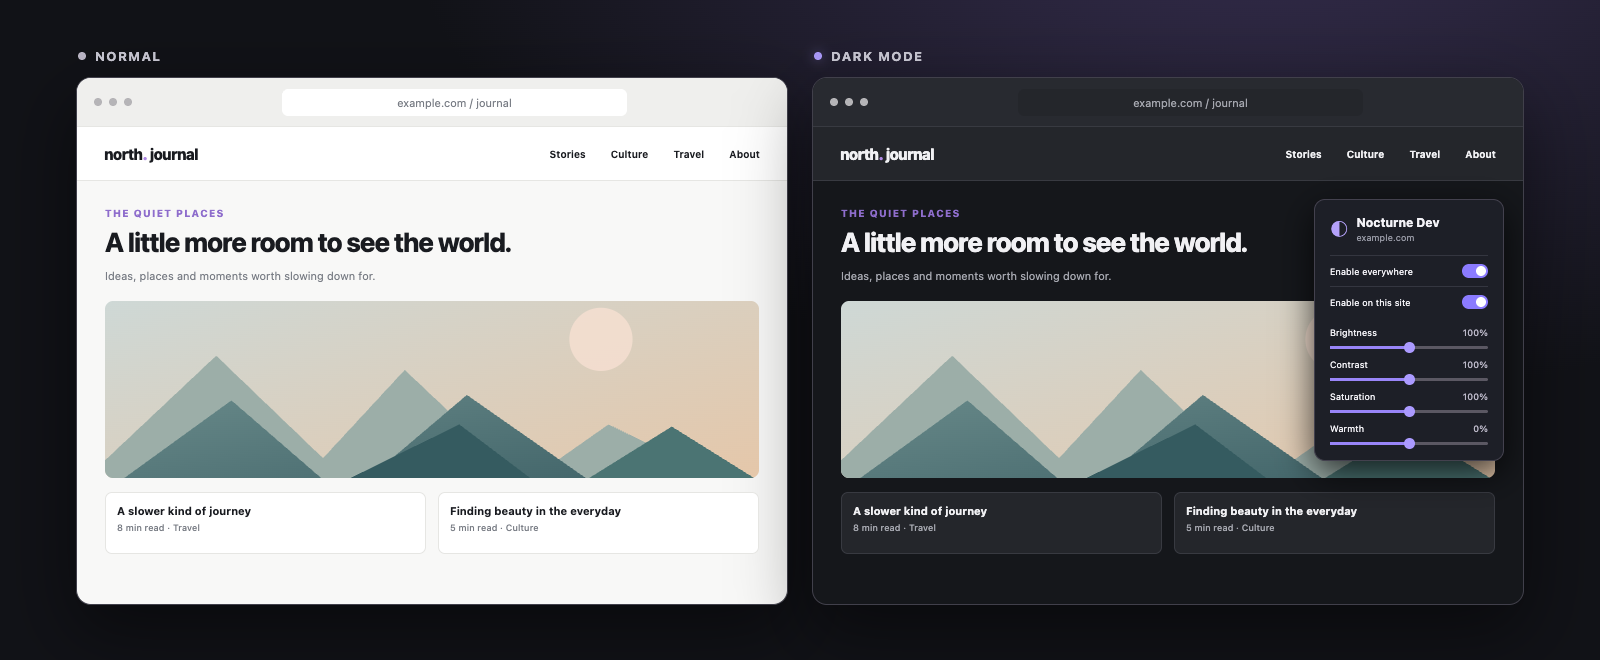
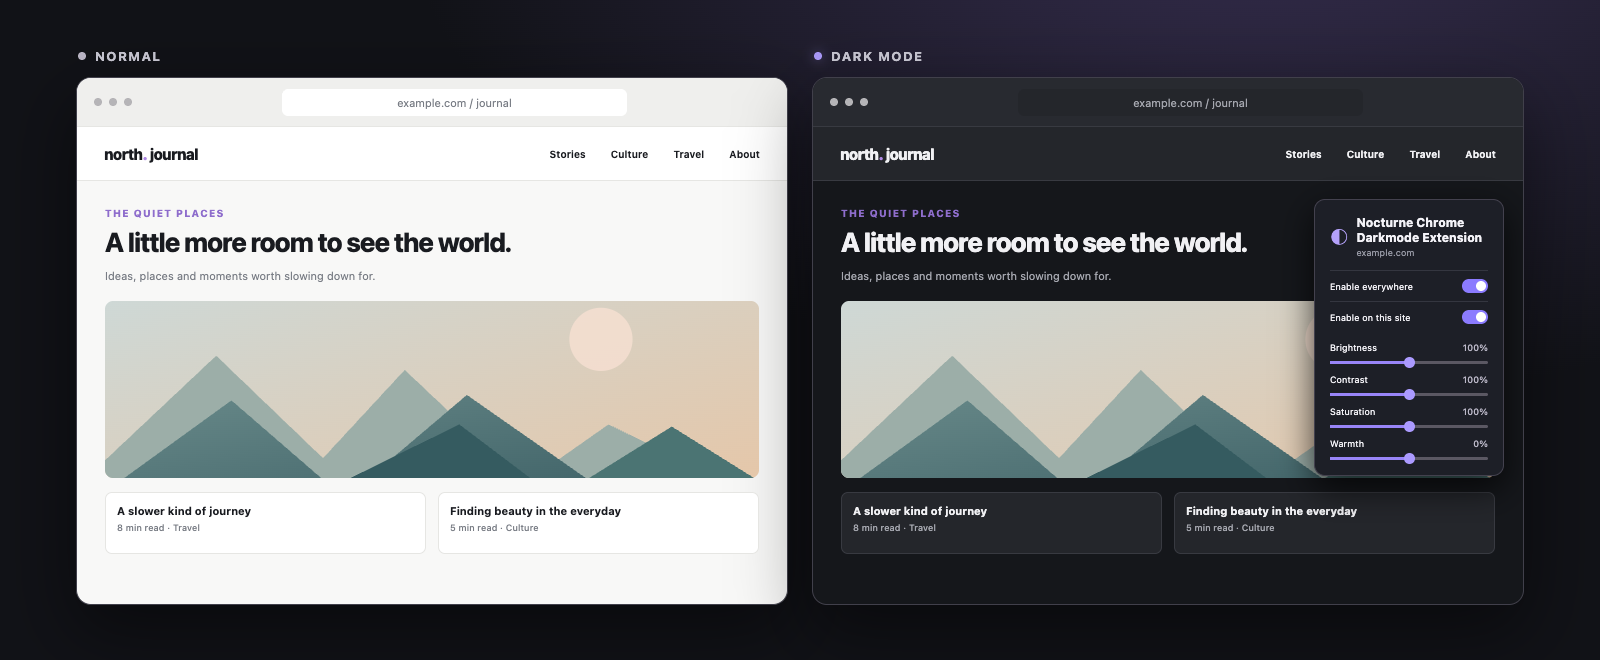
Rename extension and update project description

Changed region(s): [[0.8125, 0.3333, 0.9375, 0.7273]]

diff --git a/assets/preview.html b/assets/preview.html
@@ -3,7 +3,7 @@
 <head>
   <meta charset="utf-8">
   <meta name="viewport" content="width=device-width, initial-scale=1">
-  <title>Nocturne Dev — illustrative preview</title>
+  <title>Nocturne Chrome Darkmode Extension — illustrative preview</title>
   <style>
     * { box-sizing: border-box; }
     body { margin: 0; font-family: -apple-system, BlinkMacSystemFont, "Segoe UI", sans-serif; background: #111217; color: #f5f4f8; }
@@ -52,7 +52,7 @@
 <div class="canvas">
   <div class="panels">
     <div class="before"><div class="label"><span class="dot"></span> Normal</div><div class="browser"><div class="chrome"><i></i><i></i><i></i><div class="address">example.com / journal</div></div><div class="page-head"><span class="site-logo">north<b>.</b> journal</span><span>Stories</span><span>Culture</span><span>Travel</span><span>About</span></div><div class="content"><div class="kicker">The quiet places</div><div class="article-title">A little more room to see the world.</div><p class="description">Ideas, places and moments worth slowing down for.</p><svg class="hero" viewBox="0 0 600 200" preserveAspectRatio="xMidYMid slice"><use href="#landscape"/></svg><div class="cards"><div class="card">A slower kind of journey<small>8 min read · Travel</small></div><div class="card">Finding beauty in the everyday<small>5 min read · Culture</small></div></div></div></div></div>
-    <div class="after"><div class="label"><span class="dot"></span> Dark Mode</div><div class="browser"><div class="chrome"><i></i><i></i><i></i><div class="address">example.com / journal</div></div><div class="page-head"><span class="site-logo">north<b>.</b> journal</span><span>Stories</span><span>Culture</span><span>Travel</span><span>About</span></div><div class="content"><div class="kicker">The quiet places</div><div class="article-title">A little more room to see the world.</div><p class="description">Ideas, places and moments worth slowing down for.</p><svg class="hero" viewBox="0 0 600 200" preserveAspectRatio="xMidYMid slice"><use href="#landscape"/></svg><div class="cards"><div class="card">A slower kind of journey<small>8 min read · Travel</small></div><div class="card">Finding beauty in the everyday<small>5 min read · Culture</small></div></div><div class="settings"><div class="settings-title"><span>◐</span><div>Nocturne Dev<small>example.com</small></div></div><div class="switch">Enable everywhere <span class="toggle"></span></div><div class="switch">Enable on this site <span class="toggle"></span></div><div class="setting">Brightness <b>100%</b><div class="track"></div></div><div class="setting">Contrast <b>100%</b><div class="track"></div></div><div class="setting">Saturation <b>100%</b><div class="track"></div></div><div class="setting">Warmth <b>0%</b><div class="track"></div></div></div></div></div></div>
+    <div class="after"><div class="label"><span class="dot"></span> Dark Mode</div><div class="browser"><div class="chrome"><i></i><i></i><i></i><div class="address">example.com / journal</div></div><div class="page-head"><span class="site-logo">north<b>.</b> journal</span><span>Stories</span><span>Culture</span><span>Travel</span><span>About</span></div><div class="content"><div class="kicker">The quiet places</div><div class="article-title">A little more room to see the world.</div><p class="description">Ideas, places and moments worth slowing down for.</p><svg class="hero" viewBox="0 0 600 200" preserveAspectRatio="xMidYMid slice"><use href="#landscape"/></svg><div class="cards"><div class="card">A slower kind of journey<small>8 min read · Travel</small></div><div class="card">Finding beauty in the everyday<small>5 min read · Culture</small></div></div><div class="settings"><div class="settings-title"><span>◐</span><div>Nocturne Chrome Darkmode Extension<small>example.com</small></div></div><div class="switch">Enable everywhere <span class="toggle"></span></div><div class="switch">Enable on this site <span class="toggle"></span></div><div class="setting">Brightness <b>100%</b><div class="track"></div></div><div class="setting">Contrast <b>100%</b><div class="track"></div></div><div class="setting">Saturation <b>100%</b><div class="track"></div></div><div class="setting">Warmth <b>0%</b><div class="track"></div></div></div></div></div></div>
   </div>
 </div>
 </body>

diff --git a/popup.html b/popup.html
@@ -4,11 +4,11 @@
     <meta charset="utf-8">
     <meta name="viewport" content="width=device-width, initial-scale=1">
     <link rel="stylesheet" href="popup.css">
-    <title>Nocturne Dev</title>
+    <title>Nocturne Chrome Darkmode Extension</title>
   </head>
   <body>
     <main>
-      <header><span class="moon">◐</span><div><h1>Nocturne Dev</h1><p id="domain">This page</p></div></header>
+      <header><span class="moon">◐</span><div><h1>Nocturne Chrome Darkmode Extension</h1><p id="domain">This page</p></div></header>
       <label class="switch-row"><span>Enable everywhere</span><input id="enabled" type="checkbox"><i></i></label>
       <label class="switch-row domain-toggle"><span id="domain-label">Enable on this site</span><input id="site-enabled" type="checkbox"><i></i></label>
       <section aria-label="Appearance controls">

diff --git a/README.md b/README.md
@@ -1,8 +1,10 @@
-# Nocturne Dev
+# Nocturne Chrome Darkmode Extension
 
 A local Manifest V3 Chrome extension that applies a configurable dark appearance to HTTP(S) websites.
 
-![Illustrative before-and-after preview of Nocturne Dev](assets/preview.png)
+This is a small, vibe-coded project built with a coding assistant for my own use. I wanted something lightweight for the handful of websites I visit, especially news sites that don't offer a dark mode. It grows through trying it on those pages, fixing what doesn't work, and checking the results. It is not intended to handle every website perfectly.
+
+![Illustrative before-and-after preview of Nocturne Chrome Darkmode Extension](assets/preview.png)
 
 *Illustrative mock-up; results vary by website.*
 
@@ -11,7 +13,7 @@ A local Manifest V3 Chrome extension that applies a configurable dark appearance
 1. Open `chrome://extensions`.
 2. Enable **Developer mode**.
 3. Choose **Load unpacked**.
-4. Select this `nocturne-dev` folder.
+4. Select the folder containing `manifest.json`.
 
 The extension has no account, telemetry, payment, or extension-operated remote service. It cannot run on Chrome's own internal pages, the Web Store, or other protected pages.
 
@@ -36,7 +38,7 @@ Appearance preferences, the global switch, and the hostnames you explicitly enab
 
 ## Colour decision rules
 
-Nocturne Dev uses the browser's computed CSS values rather than a list of website-specific selectors. Its rules are intentionally conservative:
+The extension uses the browser's computed CSS values rather than a list of website-specific selectors. Its rules are intentionally conservative:
 
 1. **Classify the paint.** Solid colours, gradients and `::before`/`::after` UI surfaces are candidates, including those in open Web Component Shadow DOMs. Image URLs, media elements, canvases and iframes are never colour-filtered. Translucent gradient overlays associated with media are preserved, so they cannot become opaque covers over thumbnails.
 2. **Transform surfaces by luminance.** Only light surfaces are mapped to the dark palette. A surface that was already dark stays dark, preventing black text from being introduced on existing dark cards.
@@ -51,7 +53,7 @@ Computed colour snapshots are held in memory for the current document only and a
 
 ## Improving support for a website
 
-Nocturne Dev is a small, deliberately low-key project. Websites use many different CSS patterns, so some will need further work. The extension does not learn new rules automatically: it improves when contributors investigate issues, update the code, and check the results.
+This is a small, deliberately low-key project. Websites use many different CSS patterns, so some will need further work. The extension does not learn new rules automatically: it improves when contributors investigate issues, update the code, and check the results.
 
 When a page does not look or behave as expected:
 
